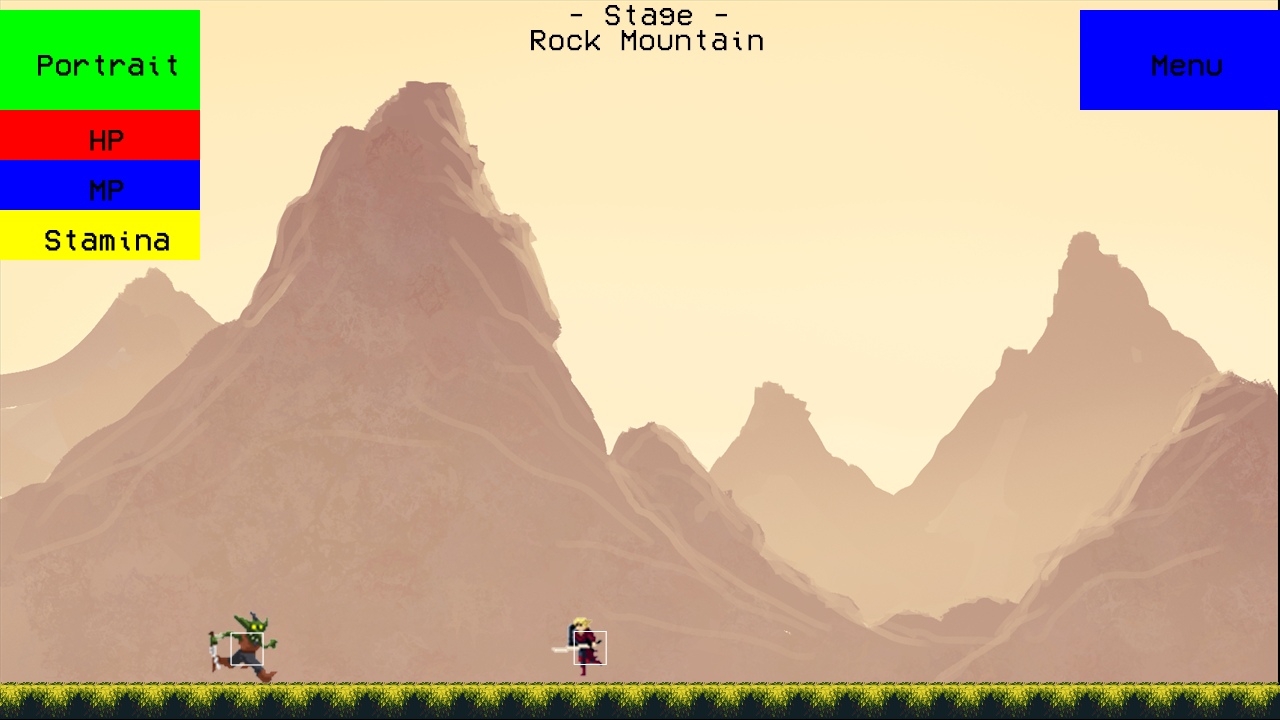
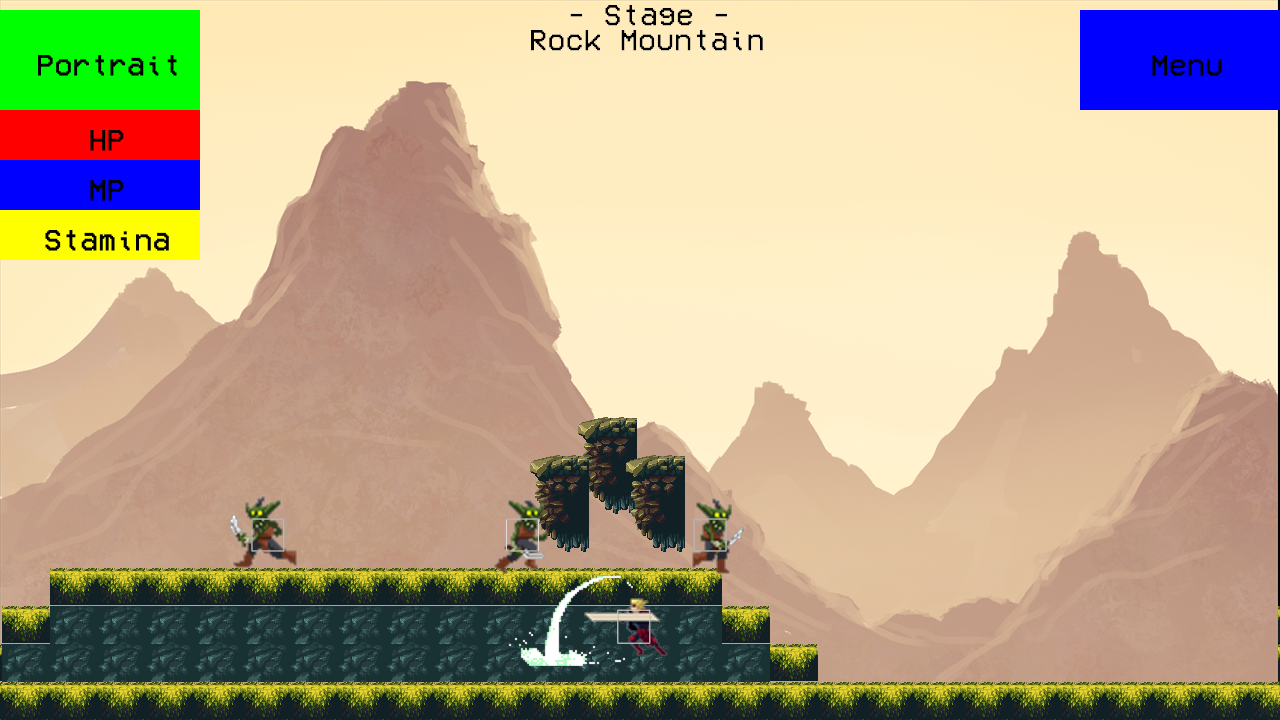
#acdemy
카메라 진동기법추가

Changed region(s): [[0.0, 0.5806, 1.0, 1.0]]

diff --git a/OpenGL-portfolio/game/stage.cpp b/OpenGL-portfolio/game/stage.cpp
@@ -79,8 +79,12 @@ Texture* tile_ground;
 Texture* tile_inGround;
 Texture* stoneBlock_tex;
 
+Texture* texFboStage;
+
 void loadStage()
 {
+	texFboStage = createTexture(devSize.width, devSize.height);
+
 	iGraphics* g = iGraphics::instance();
 
 	tile_ground = createImage("assets/stage/tileset/ground.png");
@@ -138,6 +142,8 @@ void loadStage()
 
 void freeStage()
 {
+	freeImage(texFboStage);
+
 	freePopPlayerUI();
 	freePopMenuUI();
 	freePopQuitAnswerUI();
@@ -154,8 +160,36 @@ void freeStage()
 	
 }
 
+iPoint shakePosition;
+float _shakeDt;
+float shakeDt = _shakeDt;
+
+void shakeStage(int range, float duration)
+{
+	int x = random() % range; if (random() % 2) x *= -1;
+	int y = random() % range; if (random() % 2) x *= -1;
+	shakePosition = iPointMake(x, y);
+	printf("shakeposition(%f, %f)\n", shakePosition.x, shakePosition.y);
+	_shakeDt = duration;
+	shakeDt = 0.0f;
+
+}
+
+iPoint zoomPosition;
+float zoomRate;
+#define _zoomDt .2f
+float zoomDt = _zoomDt;
+void zoomStage(iPoint point, float zr)
+{
+	zoomPosition = point;
+	zoomRate = zr;
+	zoomDt = 0.0f;
+}
+
 void drawStage(float dt)
 {
+	fbo->bind(texFboStage);////////////////////////////////////////////////////////////////////////////////
+
 	iPoint movement = iPointMake(0, 1) * powGravity * dt;
 
 	drawImage(bgTex, 0, 0, TOP | LEFT); // background
@@ -231,15 +265,12 @@ void drawStage(float dt)
 
 	if (keyDown & keyboard_num1)
 	{
-		
-
+	
 		printf("num1\n");
 		be = Behave_meleeAttack;
-
-		hero->Skill1();
-		
-		zoomLib(hero->getPosition()+offMt,1.5);
-		
+		hero->Skill1();	
+	//	zoomStage(hero->getPosition()+offMt,1.5);
+		shakeStage(30);
 
 	}
 
@@ -375,6 +406,53 @@ void drawStage(float dt)
 	drawRect((hero->getPosition().x - hero->getSize().width / 2) + offMt.x,
 		(hero->getPosition().y - hero->getSize().height) + offMt.y, hero->getSize().width, hero->getSize().height);
 #endif
+
+	fbo->unbind();////////////////////////////////////////////////////////////////////////////////
+	Texture* tex = texFboStage;
+	if (zoomDt < _zoomDt || shakeDt < _shakeDt)
+	{
+		//카메라줌
+		iPoint c = iPointMake(devSize.width / 2, devSize.height / 2);
+		float r = 1.0f;
+		if (zoomDt < _zoomDt)
+		{
+			r = 1.0f + (zoomRate - 1.0f) * _sin(180 * zoomDt / _zoomDt);
+			zoomDt += dt;
+			iPoint dp = zoomPosition - c;
+			iPoint rp = dp * r;
+			c -= rp - dp;
+		}
+
+		if (shakeDt < _shakeDt) // 진동일때 진동이 아닐떈 암것도 안하면됨 
+		{
+			// cycle 3 = shakePosition * (1.0f + 0.5f + 0.25f)
+			float r = shakeDt / _shakeDt;
+			if (r < 1.0f / 1.75f) // 총3번 흔들림
+			{
+				c += shakePosition * _sin(180 * r / (1.0f / 1.75f)); // 첫번쨰 사이클일떄 100%
+			}
+			else if (r < 1.5f / 1.75f)
+			{
+				c += shakePosition * 0.5f * _sin(180 * (r-1.0f/1.75f) / (0.5f / 1.75f)); // 두번째 사이클일떄 50%
+			}
+			else
+			{
+				c += shakePosition * 0.25f * _sin(180 * (r - 1.5f / 1.75f) / (0.25f / 1.75f)); // 세번쨰 싸이클일때 25%
+			}
+			shakeDt += dt;
+		}
+
+		drawImage(tex, c.x, c.y,
+			0, 0, tex->width, tex->height, VCENTER | HCENTER,
+			r, r, 2, 0, REVERSE_HEIGHT);
+	}
+	else
+	{
+		//drawImage(tex, 0, 0, TOP | LEFT);
+		drawImage(tex, 0, 0,
+			0, 0, tex->width, tex->height, TOP | LEFT,
+			1.0f, 1.0f, 2, 0, REVERSE_HEIGHT);
+	}
 
 
 

diff --git a/OpenGL-portfolio/lib/iStd.cpp b/OpenGL-portfolio/lib/iStd.cpp
@@ -35,6 +35,7 @@ void loadLib(HDC hDC)
 
     devSize = iSizeMake(DEVSIZE_WIDTH, DEVSIZE_HEIGHT);
     fbo = new iFBO(devSize.width, devSize.height);
+    uiFbo = new iFBO(devSize.width, devSize.height); 
     texFboForiPopup = createTexture(devSize.width, devSize.height);
     reshapeOpenGL(monitorSizeW, monitorSizeH);// App.cpp
 
@@ -110,32 +111,6 @@ void checkScreenshot()
 }
 
 
-iPoint shakePosition;
-float shakeRate;
-#define _shakeDt 1.0f;
-float shakeDt = _shakeDt;
-
-void shakeLib(iPoint point, float shakeRate)
-{
-    shakePosition = point;
-    shakeRate = shakeRate;
-    shakeDt = 0.0f;
-
-
-
-}
-
-iPoint zoomPosition;
-float zoomRate;
-#define _zoomDt .2f
-float zoomDt = _zoomDt;
-void zoomLib(iPoint point, float zr)
-{
-    zoomPosition = point;
-    zoomRate = zr;
-    zoomDt = 0.0f;
-}
-
 void drawLib(Method_Paint method)
 {
     DWORD d = GetTickCount();
@@ -158,27 +133,10 @@ void drawLib(Method_Paint method)
 
     setRGBA(1, 1, 1, 1);
     Texture* tex = fbo->getTexture();
-    if (zoomDt < _zoomDt)
-    {
-        float r = 1.0f + (zoomRate - 1.0f) * _sin(180 * zoomDt / _zoomDt);
-        zoomDt += delta;
-        iPoint c = iPointMake(devSize.width / 2, devSize.height / 2);
-        iPoint dp = zoomPosition - c;
-        iPoint rp = dp * r;
-        c -= rp - dp;
-
-        drawImage(tex, c.x, c.y,
-            0, 0, tex->width, tex->height, VCENTER | HCENTER,
-            r, r, 2, 0, REVERSE_HEIGHT);
-}
-    else
-    {
-        //drawImage(tex, 0, 0, TOP | LEFT);
-        drawImage(tex, 0, 0,
-            0, 0, tex->width, tex->height, TOP | LEFT,
-            1.0f, 1.0f, 2, 0, REVERSE_HEIGHT);
-    }
-
+    //drawImage(tex, 0, 0, TOP | LEFT);
+    drawImage(tex, 0, 0,
+        0, 0, tex->width, tex->height, TOP | LEFT,
+        1.0f, 1.0f, 2, 0, REVERSE_HEIGHT);
    
     drawScreenshot();
 
@@ -304,6 +262,7 @@ iFBO::iFBO(int width, int height)
     // frameBuffer
     glGenFramebuffers(1, &fbo);
     glBindFramebuffer(GL_FRAMEBUFFER, fbo);
+ 
     GLenum fboBuffs[1] = { GL_COLOR_ATTACHMENT0, };
     glDrawBuffers(1, fboBuffs);//glDrawBuffer(GL_COLOR_ATTACHMENT0);
     glFramebufferTexture2D(GL_FRAMEBUFFER, GL_COLOR_ATTACHMENT0, GL_TEXTURE_2D, texID, 0);
@@ -318,7 +277,9 @@ iFBO::iFBO(int width, int height)
     listNum = 0;
 }
 
-iFBO* fbo = NULL;
+iFBO* fbo = NULL; // game 화면 mainFBO
+iFBO* uiFbo = NULL; // game 화면 UIFBO
+
 iFBO::~iFBO()
 {
     glBindFramebuffer(GL_FRAMEBUFFER, 0);
@@ -327,6 +288,7 @@ iFBO::~iFBO()
     freeImage(tex);
 
     glDeleteFramebuffers(1, &fbo);
+
 
     free(listTex);
 }
@@ -1041,6 +1003,11 @@ float getStringSize() { return _stringSize; }
 void setStringSize(float size)
 {
     _stringSize = size;
+}
+
+float getStirngSize()
+{
+    return 0.0f;
 }
 
 void setStringRGBA(float r, float g, float b, float a)

diff --git a/OpenGL-portfolio/lib/iStd.h b/OpenGL-portfolio/lib/iStd.h
@@ -42,9 +42,6 @@ uint32 getKeyStat();
 bool getKeyStat(uint32 key);
 void resizeLib(int width, int height);
 
-void shakeLib(iPoint point, float shakeRate); // 카메라 진동
-void zoomLib(iPoint point, float zoomRate); // 카메라 확대
-
 class iFBO
 {
 public:
@@ -71,6 +68,7 @@ public:
 };
 
 extern iFBO* fbo;
+extern iFBO* uiFbo;
 float getStringSize();
 uint8 float2uint8(float f);
 void setRGBA(float r, float g, float b, float a);

diff --git a/OpenGL-portfolio/game/stage.h b/OpenGL-portfolio/game/stage.h
@@ -10,7 +10,8 @@ void freeStage();
 void drawStage(float dt);
 void keyStage(iKeyState stat, iPoint point);
 
-
+void shakeStage(int range, float duration=0.5f); // 카메라 진동
+void zoomStage(iPoint point, float zoomRate); // 카메라 확대
 
 
 
